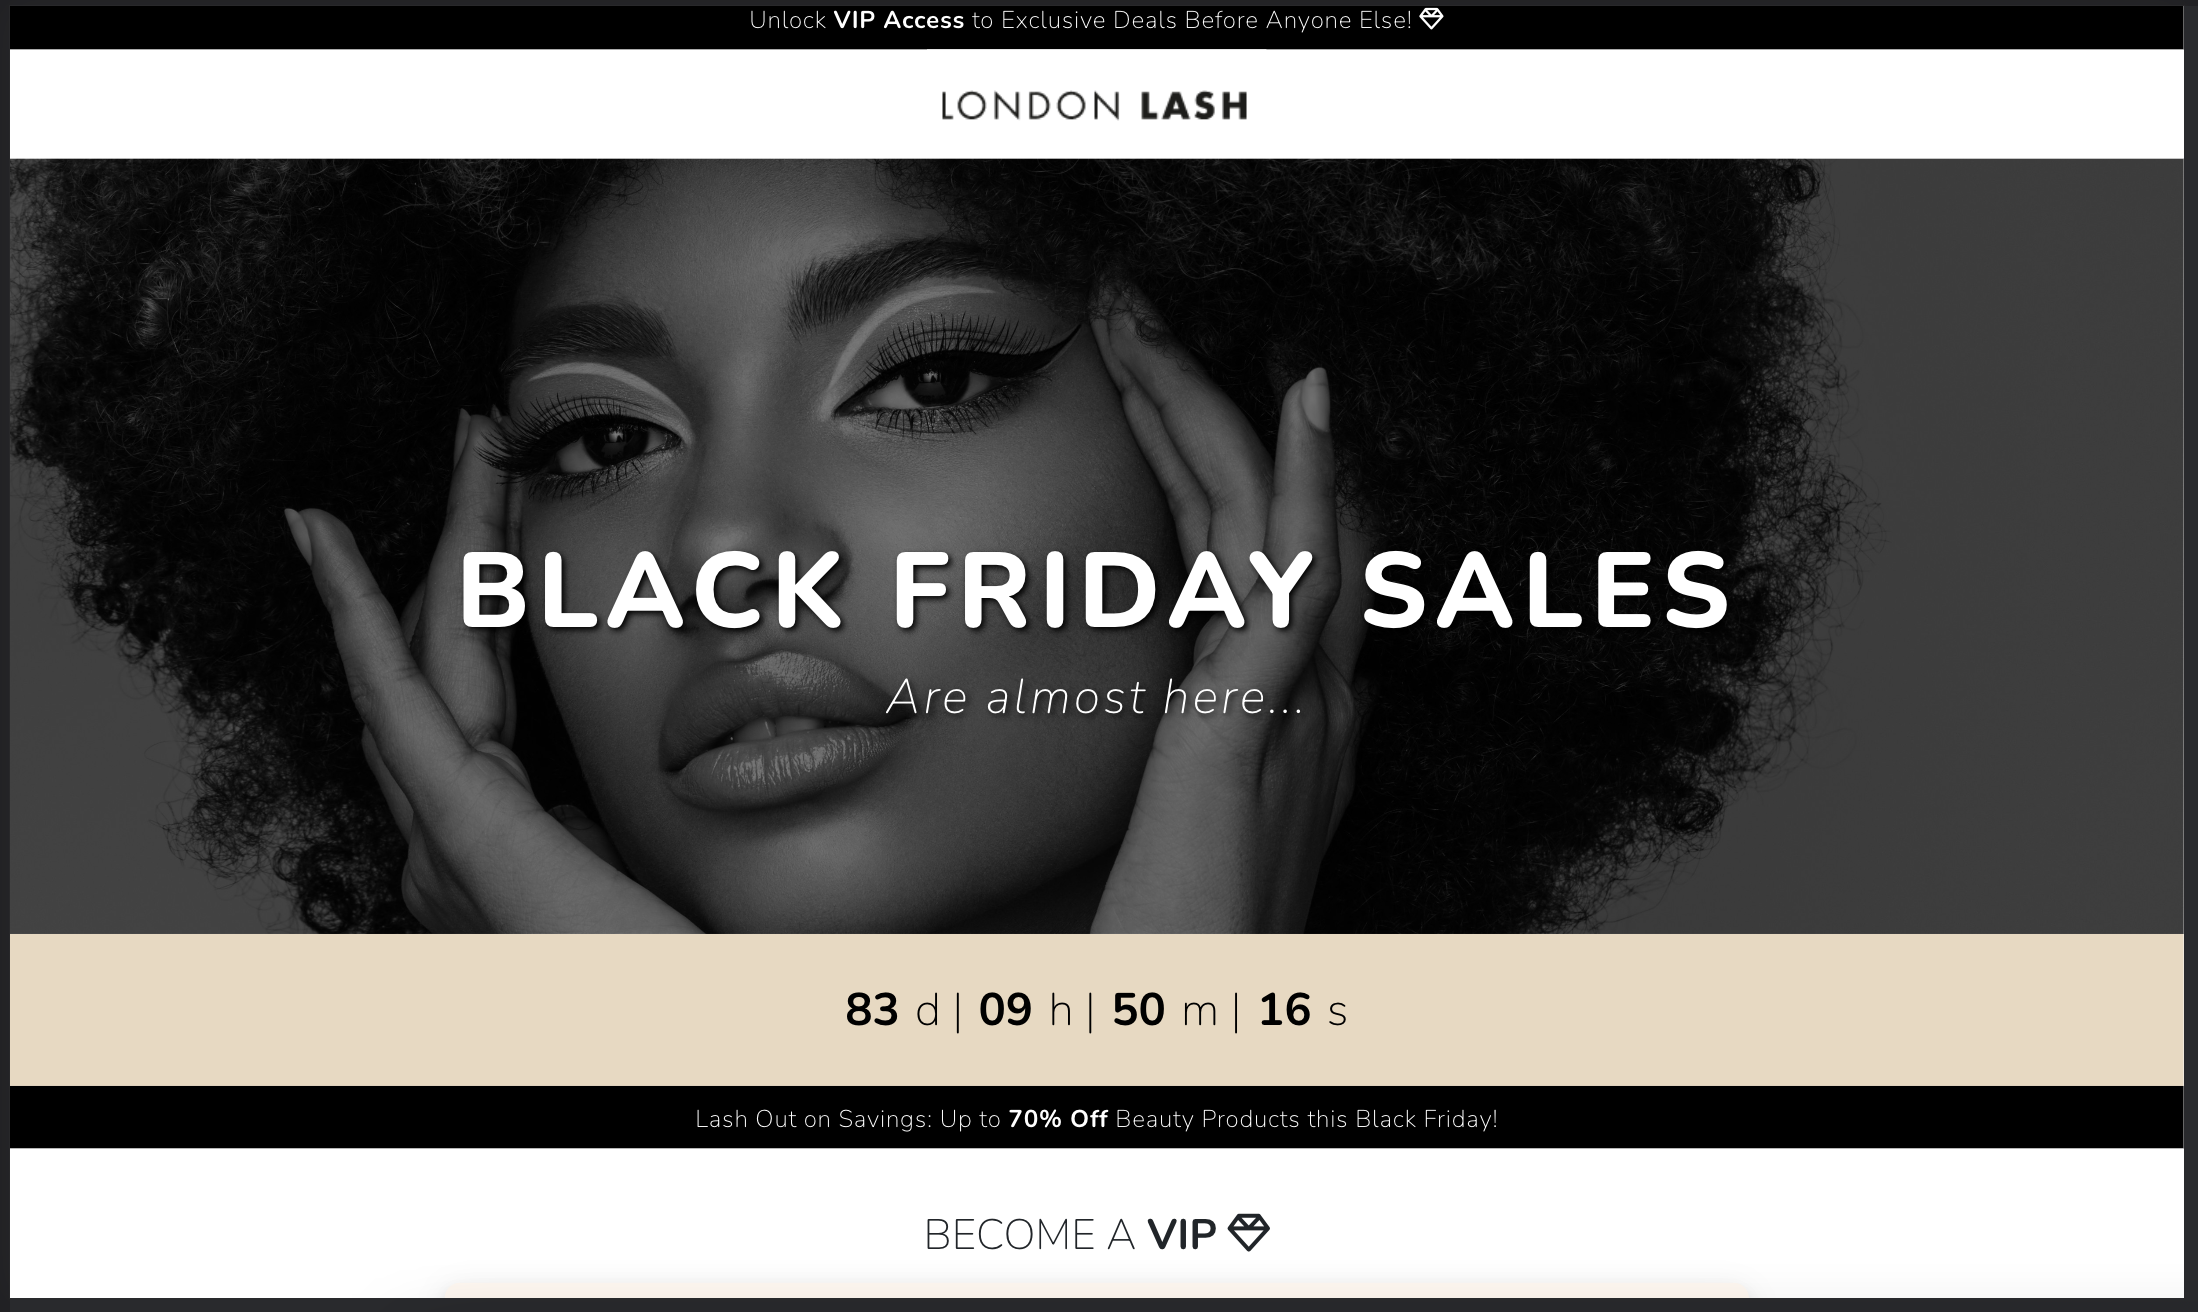
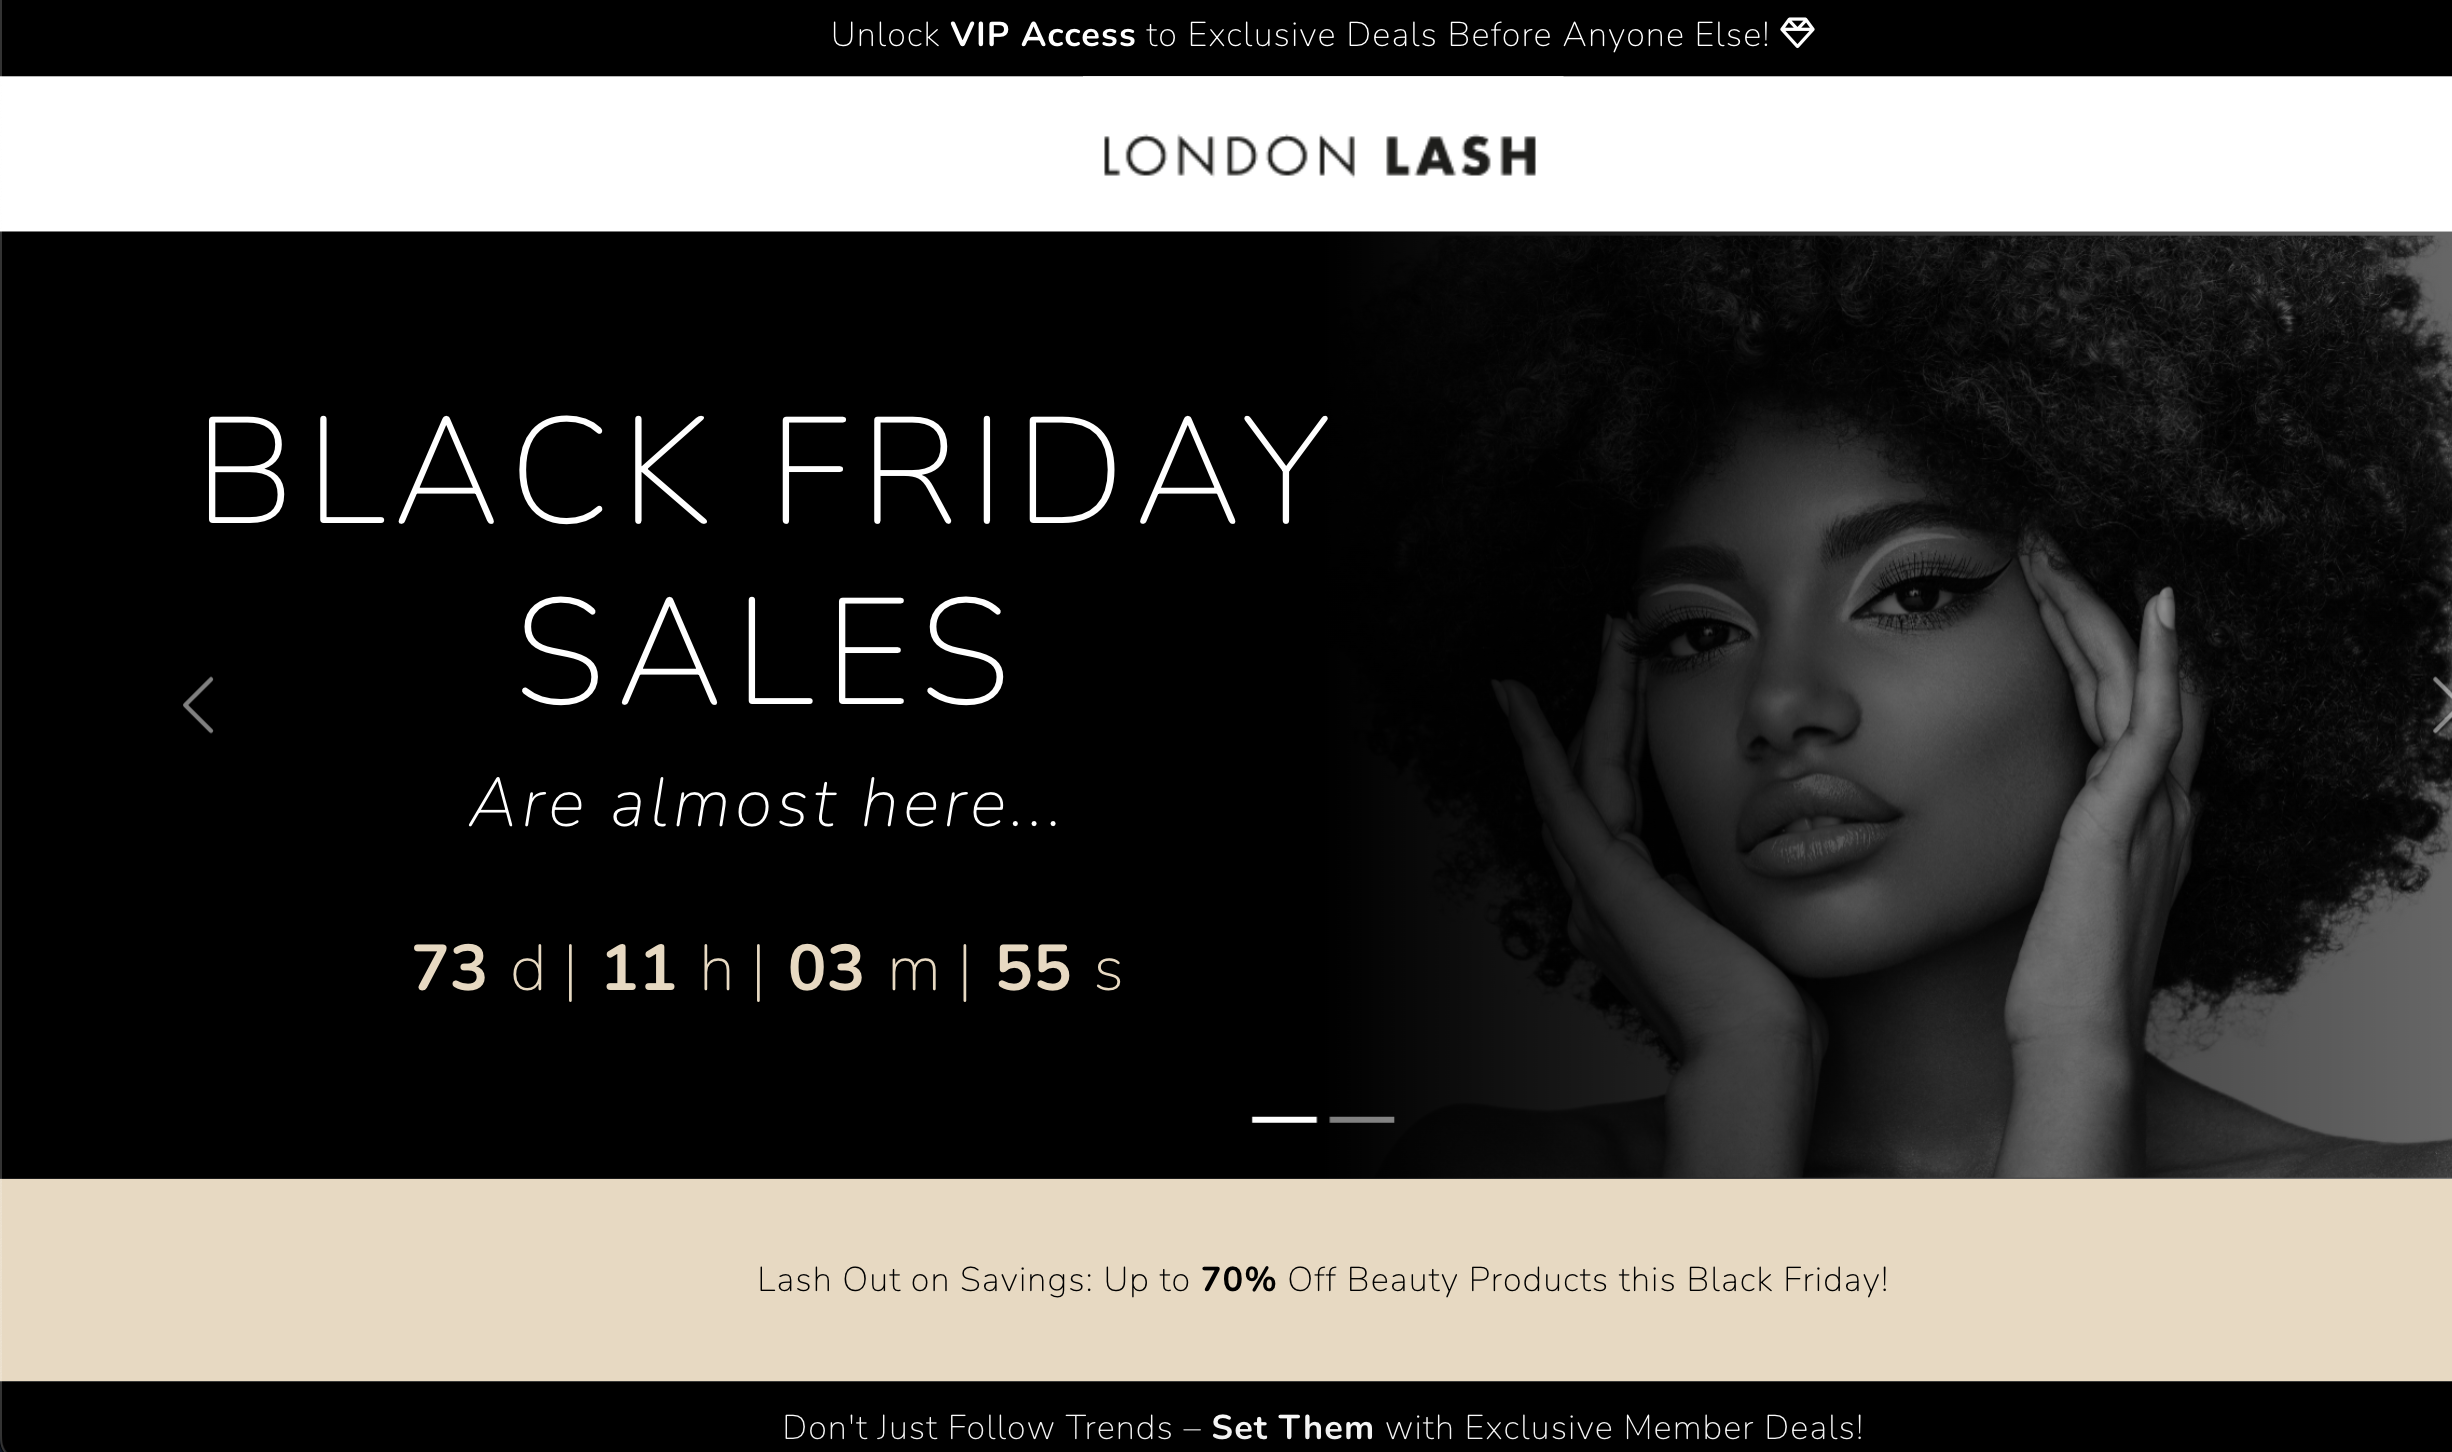
update timer to my 40th, omg

diff --git a/src/components/CarouselComponent.js b/src/components/CarouselComponent.js
@@ -29,12 +29,12 @@ function CarouselComponent() {
                         <Carousel.Item interval={3000}>
                             {/* Overlay on each item */}
                             <div className={styles.overlay}></div>
-                            <img className="d-block w-100" src={Hero} alt="First slide" />
+                            <img className="d-block w-100" src={Hero} alt="First slide" loading="eager" />
                         </Carousel.Item>
                         <Carousel.Item interval={3000}>
                             {/* Overlay on each item */}
                             <div className={styles.overlay}></div>
-                            <img className="d-block w-100" src={Hero2} alt="Second slide" />
+                            <img className="d-block w-100" src={Hero2} alt="Second slide" loading="eager" />
                         </Carousel.Item>
                     </Carousel>
                 </div>
@@ -50,12 +50,12 @@ function CarouselComponent() {
                         <Carousel.Item interval={3000}>
                             {/* Overlay on each item */}
                             <div className={styles.overlay}></div>
-                            <img className="d-block w-100" src={Heromobile} alt="First slide" />
+                            <img className="d-block w-100" src={Heromobile} alt="First slide" loading="eager" />
                         </Carousel.Item>
                         <Carousel.Item interval={3000}>
                             {/* Overlay on each item */}
                             <div className={styles.overlay}></div>
-                            <img className="d-block w-100" src={Hero2mobile} alt="Second slide" />
+                            <img className="d-block w-100" src={Hero2mobile} alt="Second slide" loading="eager" />
                         </Carousel.Item>
                     </Carousel>
                 </div>

diff --git a/src/components/Landing.js b/src/components/Landing.js
@@ -1,24 +1,29 @@
-import { React, useState, useEffect } from 'react';
+import {React, useState, useEffect} from 'react';
 import styles from '../styles/Landing.module.css'
-import s from '../styles/Banner.module.css'
+import stylesCountdown from '../styles/Countdown.module.css'
 import FlashingText from './FlashingText'
 import CountDownTimer from './CountdownTimer/CountdownTimer'
 import CarouselComponent from './CarouselComponent';
-import BeigeBanner from './BeigeBanner';
+
 
 function Landing() {
     return (
-        <>  
-        <div className={styles.Hero}>
-            {/** <img src={hero} alt='Hero with lashes' />*/}
-            <CarouselComponent />
-            <div className={styles.Content}>
-                <div>
-                <FlashingText/>
-                <CountDownTimer countdownTimestampMs={1700784000000}/>
-                </div>            
+        <>
+            <div className={
+                styles.Hero
+            }>
+                {/** <img src={hero} alt='Hero with lashes' />*/}
+                <CarouselComponent/>
+                <div className={
+                    styles.Content
+                }>
+                    <div>
+                        <FlashingText/>
+                        <CountDownTimer countdownTimestampMs={1925506800000}/>
+                    </div>
+                </div>
             </div>
-        </div>
+
         </>
     );
 }

diff --git a/src/styles/Countdown.module.css b/src/styles/Countdown.module.css
@@ -14,6 +14,7 @@
     justify-content: center;
     align-items: center;
     color: #e7d9c1;
+
 }
 
 /* Individual countdown: days, hours, minutes, secs */
@@ -26,10 +27,24 @@
     width: 2ch;
 }
 
+
 @media screen and (max-width: 466px) {
     .countdown {
         font-size: 25px;
     }
 
 }
+@media screen and (max-width: 980px) {    
+    /* Timer */
+    .countdown {
+        height: 100px;
+        font-size: 30px;
+        display: flex;
+        justify-content: center;
+        align-items: center;
+        color: #e7d9c1;
+    }
+}
+
+
 
